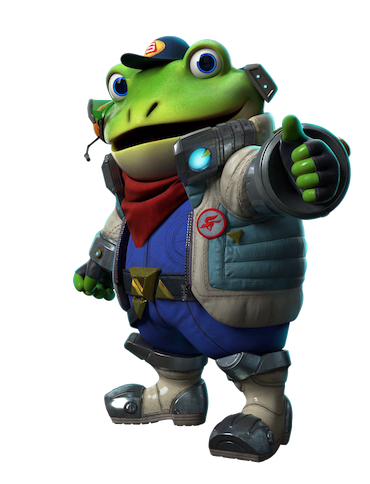
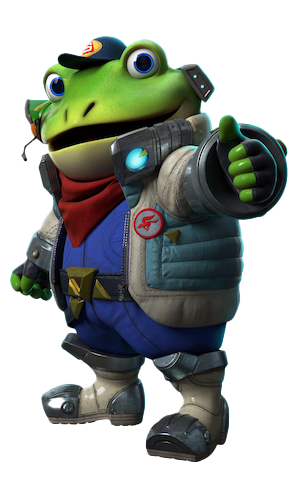
thinner image of slippy pilot to fit in div better

diff --git a/assets/css/style.css b/assets/css/style.css
@@ -269,7 +269,7 @@ label {
     background: rgba(92, 116, 164, .8);
     border: solid 1px white;
     margin: 10px 0;
-    padding: 0 25px;
+    padding: 0 15px;
     text-align: center;
 }
 
